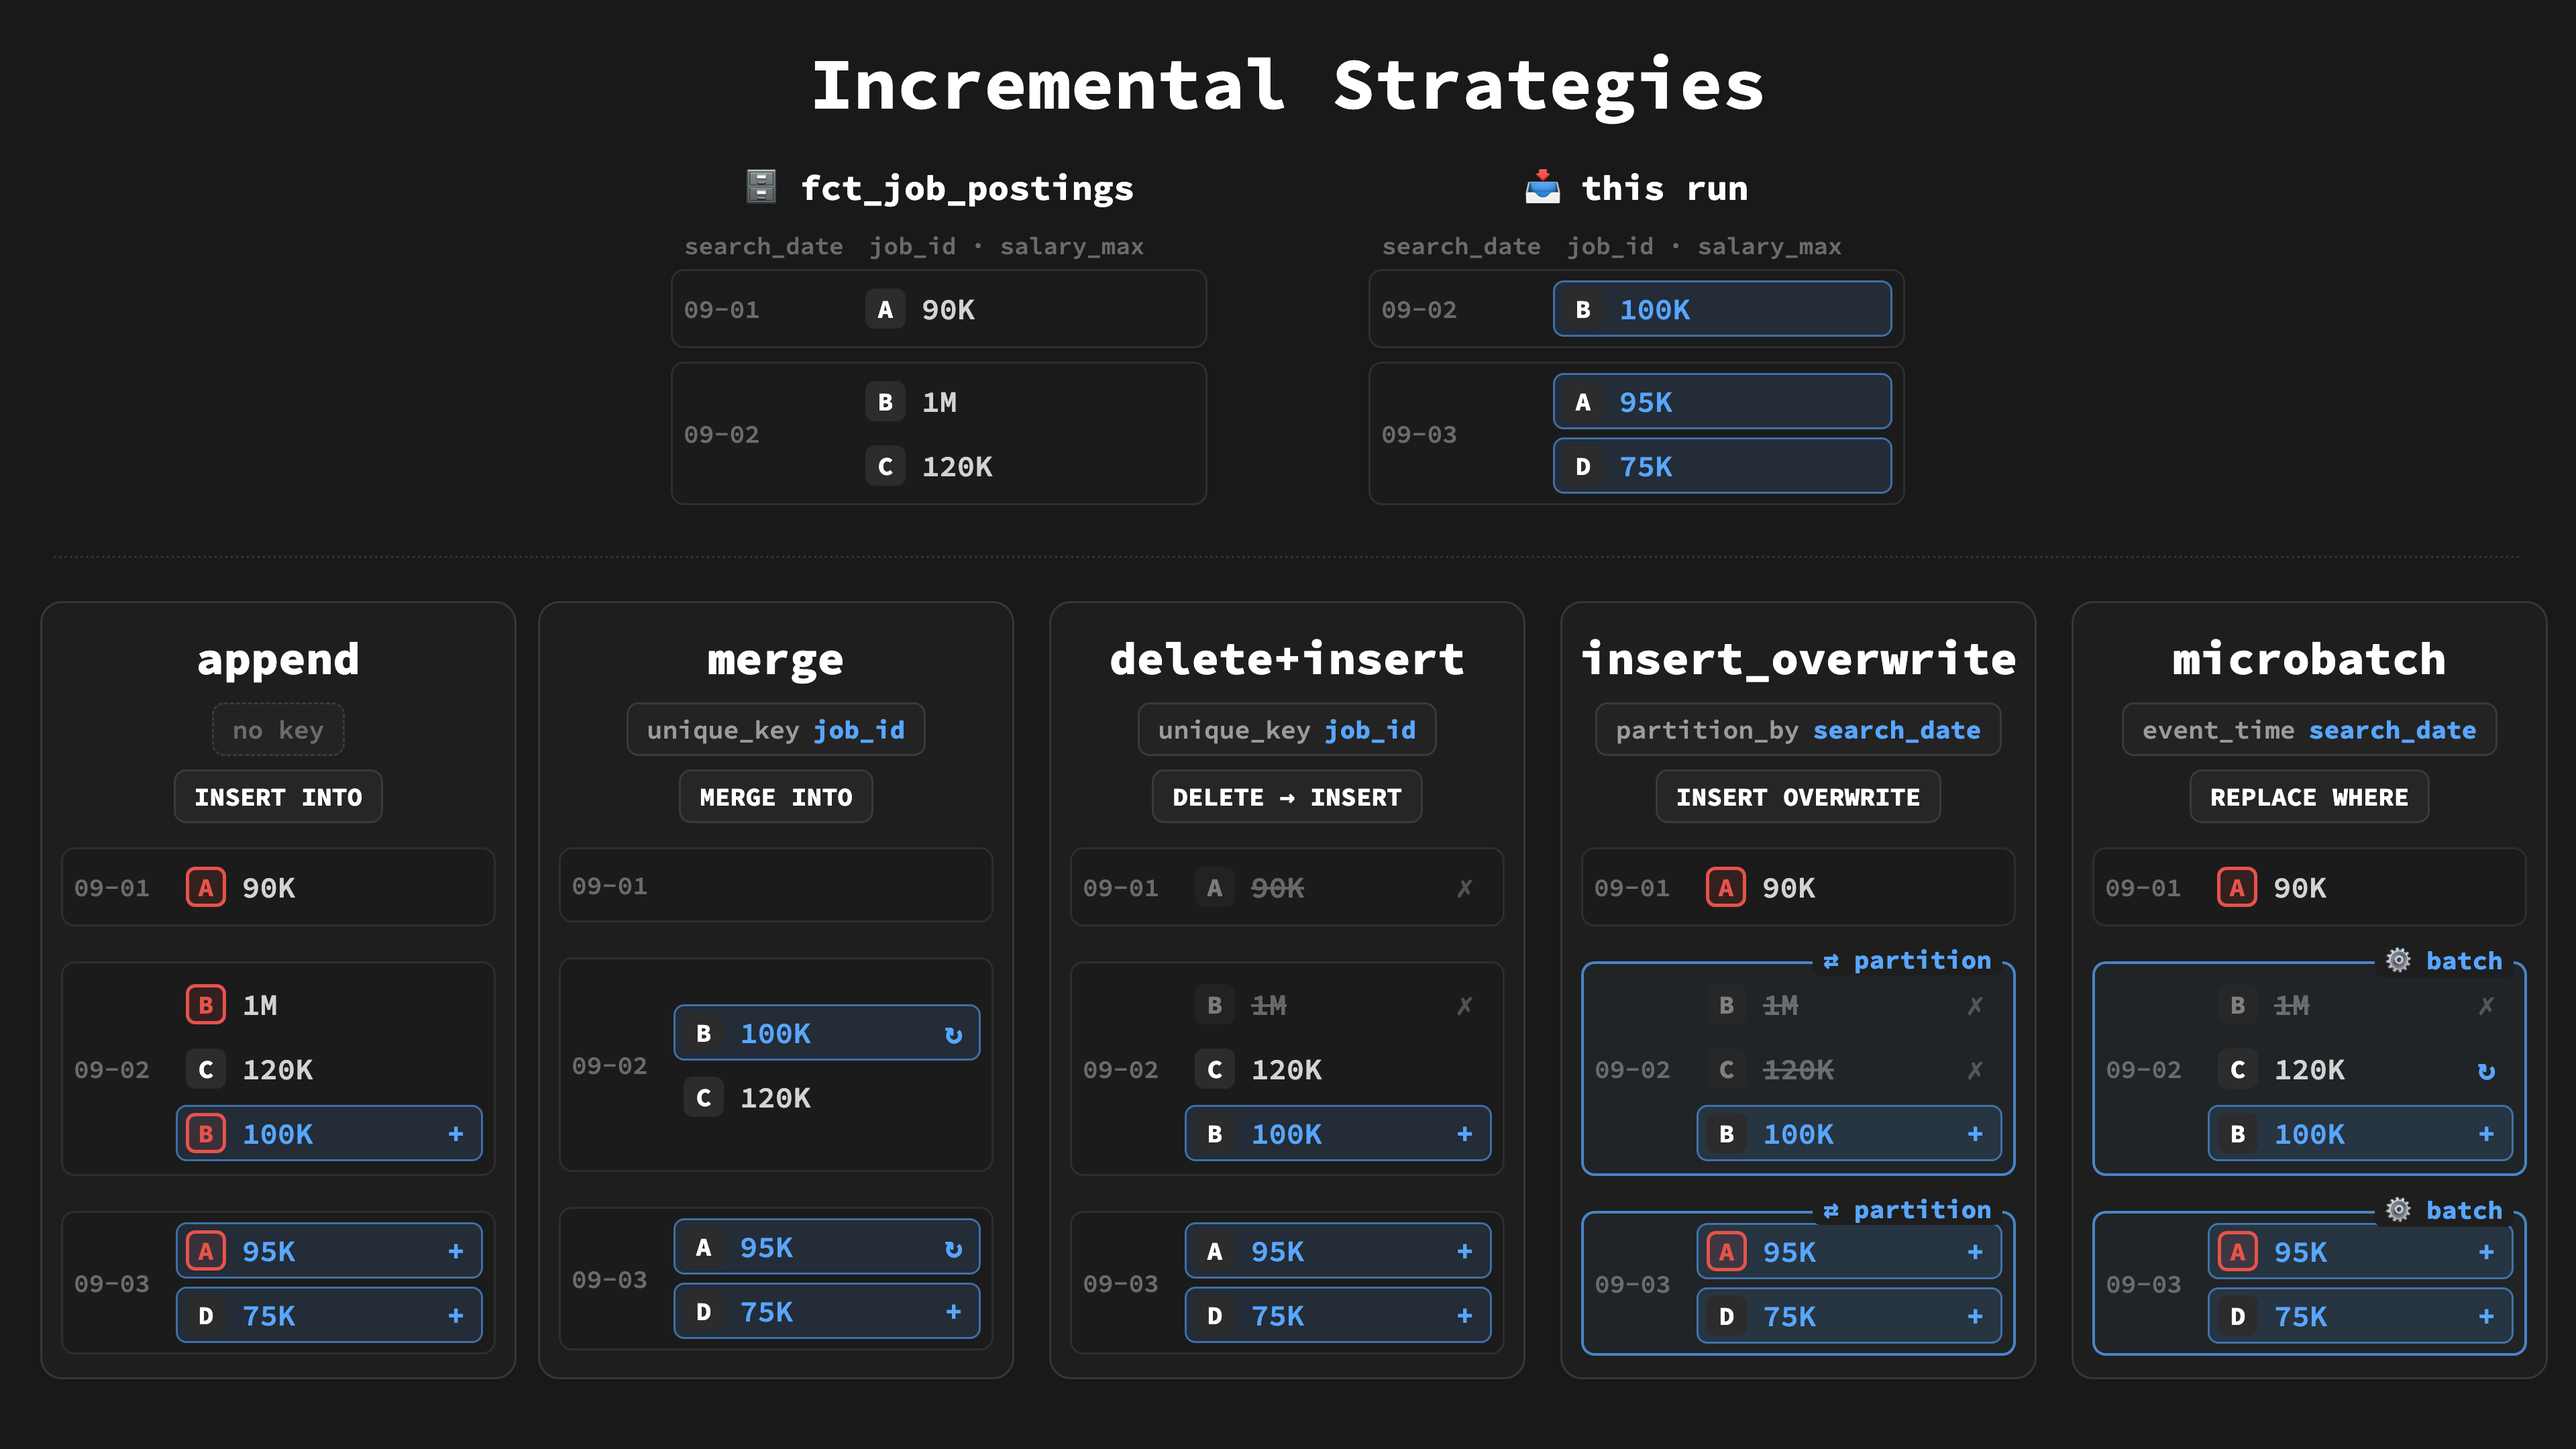
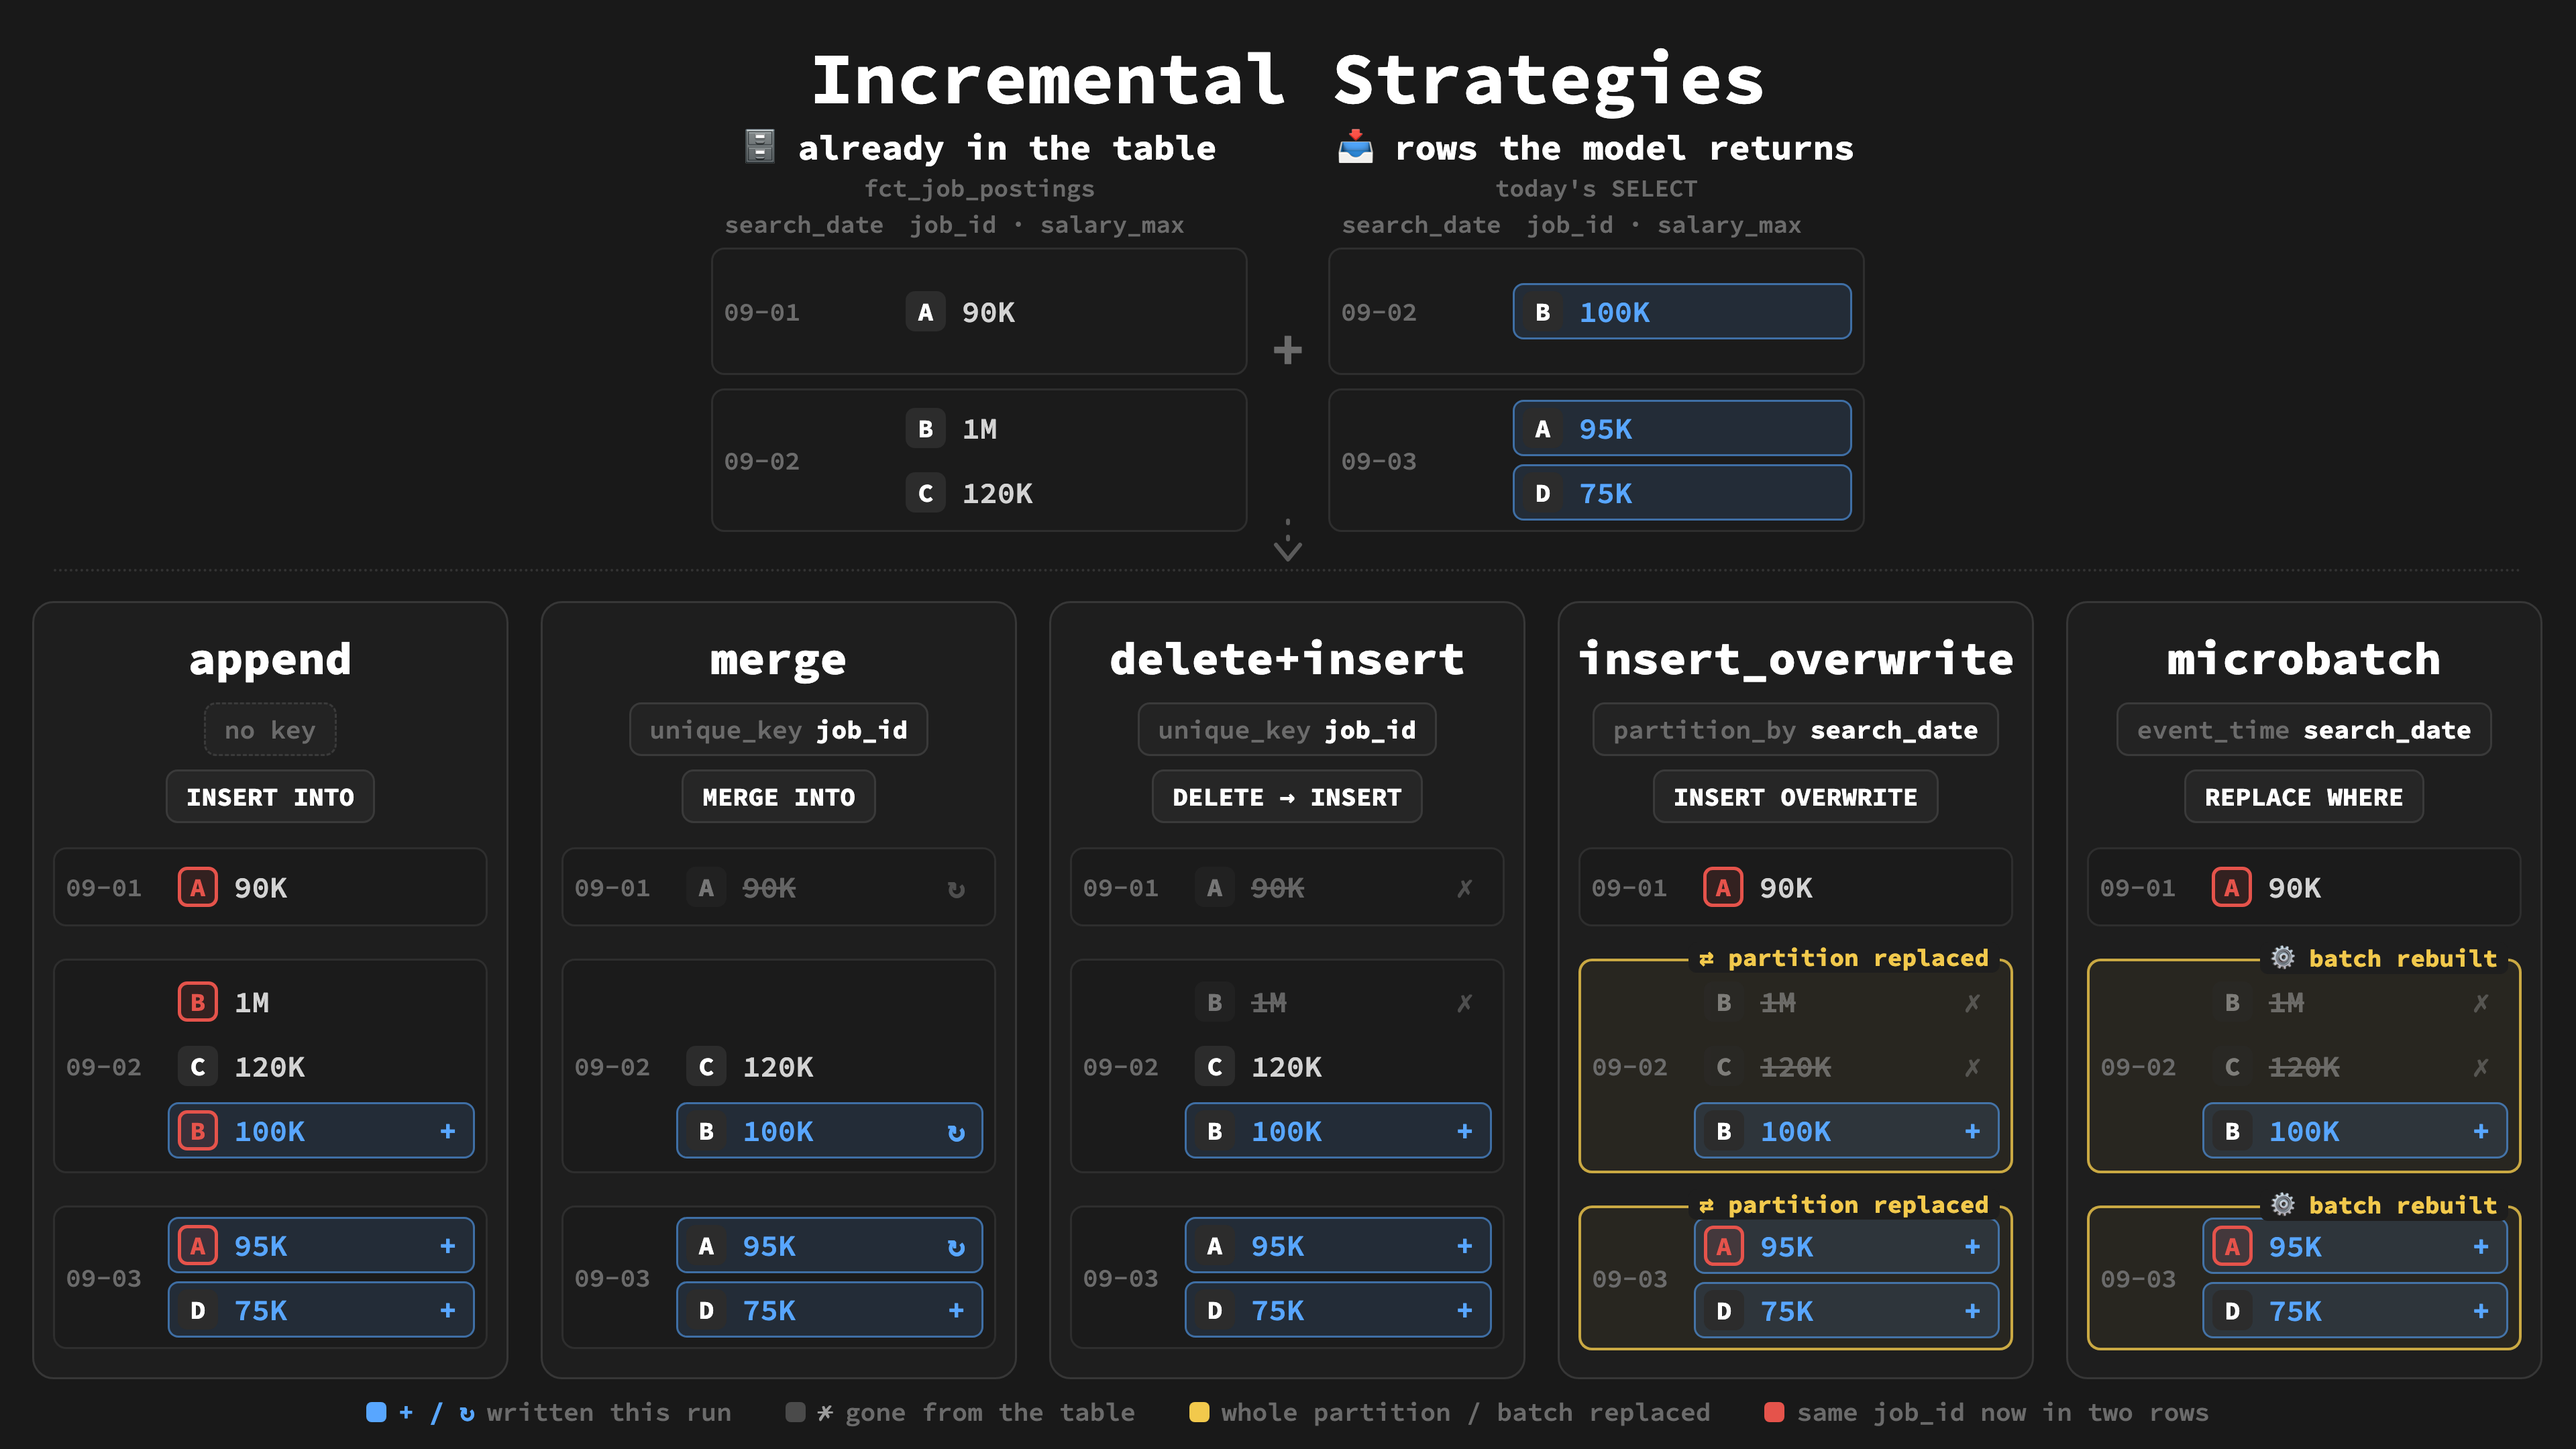
3.12_incremental_strategies: pull Luke's canvas redesign (labelled givens, yellow replaced lanes, merge shows A moving, key strip) and re-render

diff --git a/resources/diagrams/3.12_incremental_strategies.html b/resources/diagrams/3.12_incremental_strategies.html
@@ -9,52 +9,62 @@
   :root{
     --bg:#191919; --panel:#202020; --zone:#1E1E1E; --line:#373737;
     --text:#D3D3D3; --muted:#9B9B9B; --faint:#6B6B6B;
-    --blue:#58A6FF; --err:#E5534B;
+    --blue:#58A6FF; --duck:#F2C94C; --err:#E5534B;
     --mono:'Source Code Pro',ui-monospace,'SF Mono',Menlo,Consolas,monospace;
   }
   html,body{margin:0;padding:0;background:var(--bg)}
   .stage{position:relative;width:1920px;height:1080px;overflow:hidden;font-family:var(--mono);color:var(--text);background:var(--bg)}
-  .title{position:absolute;left:0;top:28px;width:1920px;text-align:center;font-size:54px;font-weight:700;color:#FFFFFF}
+  .title{position:absolute;left:0;top:24px;width:1920px;text-align:center;font-size:54px;font-weight:700;color:#FFFFFF}
 
   /* ---------- mini table: date lanes holding job rows ---------- */
   .mt{display:flex;flex-direction:column;gap:10px}
-  .card .mt{gap:26px}
+  .card .mt{gap:24px}
   .lane{display:flex;align-items:stretch;gap:10px;box-sizing:border-box;border:1.5px solid #2e2e2e;border-radius:10px;background:#1b1b1b;padding:7px 8px;position:relative}
   .lane .d{width:66px;flex:none;display:flex;align-items:center;font-size:19px;font-weight:600;color:var(--faint)}
   .lane .rows{flex:1;display:flex;flex-direction:column;gap:6px;justify-content:center}
-  .lane.swap{border:2px solid rgba(88,166,255,.75);background:rgba(88,166,255,.04)}
-  .lane .tag{position:absolute;right:8px;top:-15px;font-size:19px;font-weight:700;color:var(--blue);background:var(--zone);padding:0 8px;border-radius:6px}
+  .lane.swap{border:2px solid rgba(242,201,76,.8);background:rgba(242,201,76,.05)}
+  .lane .tag{position:absolute;right:8px;top:-14px;font-size:18px;font-weight:700;color:var(--duck);background:var(--zone);padding:0 8px;border-radius:6px}
   .r{height:42px;box-sizing:border-box;display:flex;align-items:center;gap:12px;padding:0 12px 0 6px;border-radius:8px;border:1.5px solid transparent}
   .r .k{width:30px;height:30px;flex:none;border-radius:7px;display:flex;align-items:center;justify-content:center;background:#2c2c2c;color:#FFFFFF;font-size:19px;font-weight:700;box-sizing:border-box}
   .r .v{font-size:22px;font-weight:600;color:var(--text)}
   .r .m{margin-left:auto;font-size:22px;font-weight:700;color:var(--blue)}
   .r.new{background:rgba(88,166,255,.12);border-color:rgba(88,166,255,.55)}
   .r.new .v{color:var(--blue)}
-  .r.gone{opacity:.42}
+  .r.gone{opacity:.4}
   .r.gone .v{text-decoration:line-through;text-decoration-thickness:2px}
   .r.gone .m{color:var(--muted)}
+  .r.pad{visibility:hidden}
   .r .k.dup{border:2.5px solid var(--err);color:var(--err);background:rgba(229,83,75,.12)}
 
   /* ---------- the givens ---------- */
   .given{position:absolute;width:400px}
   .given .lane .d{width:118px}
-  .ghead{display:flex;align-items:center;justify-content:center;gap:10px;height:44px;margin-bottom:10px;font-size:26px;font-weight:700;color:#FFFFFF}
+  .given .lane{min-height:95px}
+  .ghead{display:flex;flex-direction:column;align-items:center;justify-content:center;gap:2px;height:52px;margin-bottom:8px}
+  .ghead b{font-size:26px;font-weight:700;color:#FFFFFF}
+  .ghead i{font-style:normal;font-size:18px;font-weight:600;color:var(--faint)}
   .cols{display:flex;gap:10px;padding:0 10px 6px 10px;font-size:18px;font-weight:600;color:var(--faint)}
   .cols span:first-child{width:128px}
+  .plus{position:absolute;left:930px;top:232px;width:60px;text-align:center;font-size:44px;font-weight:700;color:var(--faint)}
 
   /* ---------- strategy cards ---------- */
   .card{position:absolute;top:448px;width:355px;height:580px;box-sizing:border-box;border:1.5px solid var(--line);border-radius:16px;background:var(--zone);padding:18px 14px 14px 14px;display:flex;flex-direction:column}
   .name{height:46px;display:flex;align-items:center;justify-content:center;font-size:34px;font-weight:800;color:#FFFFFF}
   .chips{display:flex;flex-direction:column;align-items:center;gap:10px;margin:10px 0 18px 0}
   .chip{height:40px;box-sizing:border-box;display:inline-flex;align-items:center;gap:10px;padding:0 14px;border-radius:9px;border:1.5px solid #3a3a3a;background:#232323;font-size:19px;font-weight:600;color:var(--text);white-space:nowrap}
-  .chip .ck{color:var(--muted)}
-  .chip .cv{color:var(--blue);font-weight:700}
+  .chip .ck{color:var(--faint)}
+  .chip .cv{color:#FFFFFF;font-weight:700}
   .chip.verb{color:#FFFFFF;font-weight:700;background:#262626}
   .chip.none{color:var(--faint);border-style:dashed}
   .card .mt .lane.l2{min-height:160px}
   .card .mt .lane.l1{min-height:56px}
   .card .mt .lane.l3{min-height:107px}
-  .rule{position:absolute;left:40px;right:40px;top:414px;border-top:2px dotted #333}
+  .rule{position:absolute;left:40px;right:40px;top:424px;border-top:2px dotted #333}
+
+  .key{position:absolute;left:0;bottom:16px;width:1920px;display:flex;justify-content:center;gap:40px;font-size:19px;font-weight:600;color:var(--faint)}
+  .key span{display:flex;align-items:center;gap:9px}
+  .key em{font-style:normal;font-weight:700}
+  .key .sw{width:15px;height:15px;border-radius:4px;display:inline-block}
 </style>
 </head>
 <body>
@@ -63,8 +73,8 @@
   <div class="title">Incremental Strategies</div>
 
   <!-- ================= THE GIVENS ================= -->
-  <div class="given" style="left:500px;top:118px">
-    <div class="ghead">🗄 fct_job_postings</div>
+  <div class="given" style="left:530px;top:96px">
+    <div class="ghead"><b>🗄 already in the table</b><i>fct_job_postings</i></div>
     <div class="cols"><span>search_date</span><span>job_id · salary_max</span></div>
     <div class="mt">
       <div class="lane"><div class="d">09-01</div><div class="rows">
@@ -77,8 +87,10 @@
     </div>
   </div>
 
-  <div class="given" style="left:1020px;top:118px">
-    <div class="ghead">📥 this run</div>
+  <div class="plus">+</div>
+
+  <div class="given" style="left:990px;top:96px">
+    <div class="ghead"><b>📥 rows the model returns</b><i>today's SELECT</i></div>
     <div class="cols"><span>search_date</span><span>job_id · salary_max</span></div>
     <div class="mt">
       <div class="lane"><div class="d">09-02</div><div class="rows">
@@ -91,10 +103,12 @@
     </div>
   </div>
 
+  <svg style="position:absolute;left:940px;top:386px;width:40px;height:34px" viewBox="0 0 40 34"><line x1="20" y1="2" x2="20" y2="19" stroke="#5a5a5a" stroke-width="3" stroke-dasharray="2 10" stroke-linecap="round"></line><path d="M11 20 L20 31 L29 20" fill="none" stroke="#5a5a5a" stroke-width="3" stroke-linecap="round" stroke-linejoin="round"></path></svg>
+
   <div class="rule"></div>
 
   <!-- ================= APPEND ================= -->
-  <div class="card" style="left:30px">
+  <div class="card" style="left:24px">
     <div class="name">append</div>
     <div class="chips">
       <span class="chip none">no key</span>
@@ -117,7 +131,7 @@
   </div>
 
   <!-- ================= MERGE ================= -->
-  <div class="card" style="left:401px">
+  <div class="card" style="left:403px">
     <div class="name">merge</div>
     <div class="chips">
       <span class="chip"><span class="ck">unique_key</span><span class="cv">job_id</span></span>
@@ -125,10 +139,12 @@
     </div>
     <div class="mt">
       <div class="lane l1"><div class="d">09-01</div><div class="rows">
+        <div class="r gone"><span class="k">A</span><span class="v">90K</span><span class="m">↻</span></div>
       </div></div>
       <div class="lane l2"><div class="d">09-02</div><div class="rows">
-        <div class="r new"><span class="k">B</span><span class="v">100K</span><span class="m">↻</span></div>
+        <div class="r pad"><span class="k">B</span><span class="v">1M</span></div>
         <div class="r"><span class="k">C</span><span class="v">120K</span></div>
+        <div class="r new"><span class="k">B</span><span class="v">100K</span><span class="m">↻</span></div>
       </div></div>
       <div class="lane l3"><div class="d">09-03</div><div class="rows">
         <div class="r new"><span class="k">A</span><span class="v">95K</span><span class="m">↻</span></div>
@@ -161,7 +177,7 @@
   </div>
 
   <!-- ================= INSERT_OVERWRITE ================= -->
-  <div class="card" style="left:1163px">
+  <div class="card" style="left:1161px">
     <div class="name">insert_overwrite</div>
     <div class="chips">
       <span class="chip"><span class="ck">partition_by</span><span class="cv">search_date</span></span>
@@ -171,12 +187,12 @@
       <div class="lane l1"><div class="d">09-01</div><div class="rows">
         <div class="r"><span class="k dup">A</span><span class="v">90K</span></div>
       </div></div>
-      <div class="lane l2 swap"><span class="tag">⇄ partition</span><div class="d">09-02</div><div class="rows">
+      <div class="lane l2 swap"><span class="tag">⇄ partition replaced</span><div class="d">09-02</div><div class="rows">
         <div class="r gone"><span class="k">B</span><span class="v">1M</span><span class="m">✗</span></div>
         <div class="r gone"><span class="k">C</span><span class="v">120K</span><span class="m">✗</span></div>
         <div class="r new"><span class="k">B</span><span class="v">100K</span><span class="m">+</span></div>
       </div></div>
-      <div class="lane l3 swap"><span class="tag">⇄ partition</span><div class="d">09-03</div><div class="rows">
+      <div class="lane l3 swap"><span class="tag">⇄ partition replaced</span><div class="d">09-03</div><div class="rows">
         <div class="r new"><span class="k dup">A</span><span class="v">95K</span><span class="m">+</span></div>
         <div class="r new"><span class="k">D</span><span class="v">75K</span><span class="m">+</span></div>
       </div></div>
@@ -184,7 +200,7 @@
   </div>
 
   <!-- ================= MICROBATCH ================= -->
-  <div class="card" style="left:1544px">
+  <div class="card" style="left:1540px">
     <div class="name">microbatch</div>
     <div class="chips">
       <span class="chip"><span class="ck">event_time</span><span class="cv">search_date</span></span>
@@ -194,16 +210,23 @@
       <div class="lane l1"><div class="d">09-01</div><div class="rows">
         <div class="r"><span class="k dup">A</span><span class="v">90K</span></div>
       </div></div>
-      <div class="lane l2 swap"><span class="tag">⚙ batch</span><div class="d">09-02</div><div class="rows">
+      <div class="lane l2 swap"><span class="tag">⚙ batch rebuilt</span><div class="d">09-02</div><div class="rows">
         <div class="r gone"><span class="k">B</span><span class="v">1M</span><span class="m">✗</span></div>
-        <div class="r"><span class="k">C</span><span class="v">120K</span><span class="m">↻</span></div>
+        <div class="r gone"><span class="k">C</span><span class="v">120K</span><span class="m">✗</span></div>
         <div class="r new"><span class="k">B</span><span class="v">100K</span><span class="m">+</span></div>
       </div></div>
-      <div class="lane l3 swap"><span class="tag">⚙ batch</span><div class="d">09-03</div><div class="rows">
+      <div class="lane l3 swap"><span class="tag">⚙ batch rebuilt</span><div class="d">09-03</div><div class="rows">
         <div class="r new"><span class="k dup">A</span><span class="v">95K</span><span class="m">+</span></div>
         <div class="r new"><span class="k">D</span><span class="v">75K</span><span class="m">+</span></div>
       </div></div>
     </div>
+  </div>
+
+  <div class="key">
+    <span><i class="sw" style="background:var(--blue)"></i><em style="color:var(--blue)">+ / ↻</em> written this run</span>
+    <span><i class="sw" style="background:#4a4a4a"></i><em style="color:var(--muted);text-decoration:line-through">✗</em> gone from the table</span>
+    <span><i class="sw" style="background:var(--duck)"></i>whole partition / batch replaced</span>
+    <span><i class="sw" style="background:var(--err)"></i>same job_id now in two rows</span>
   </div>
 
 </div>
